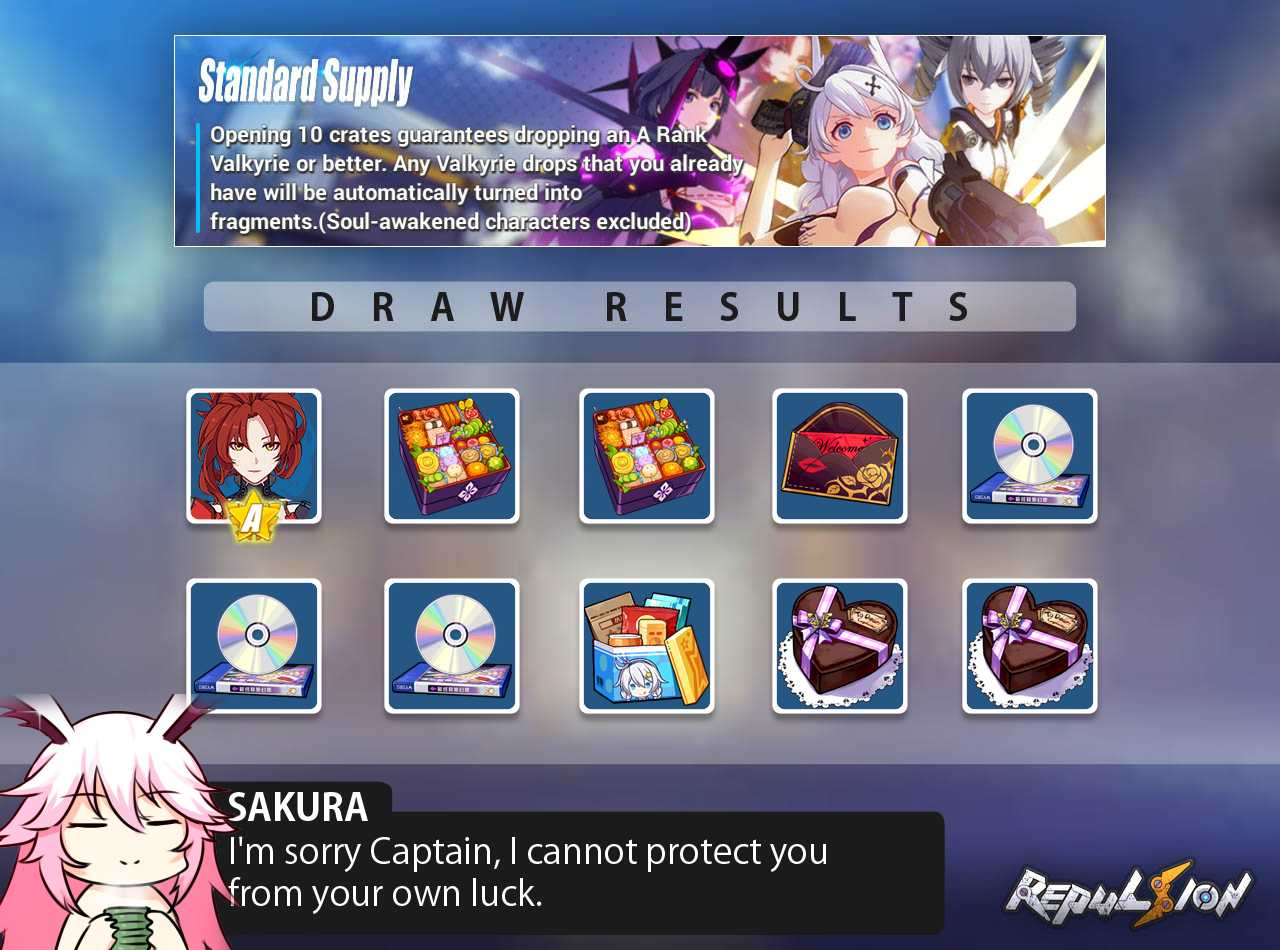
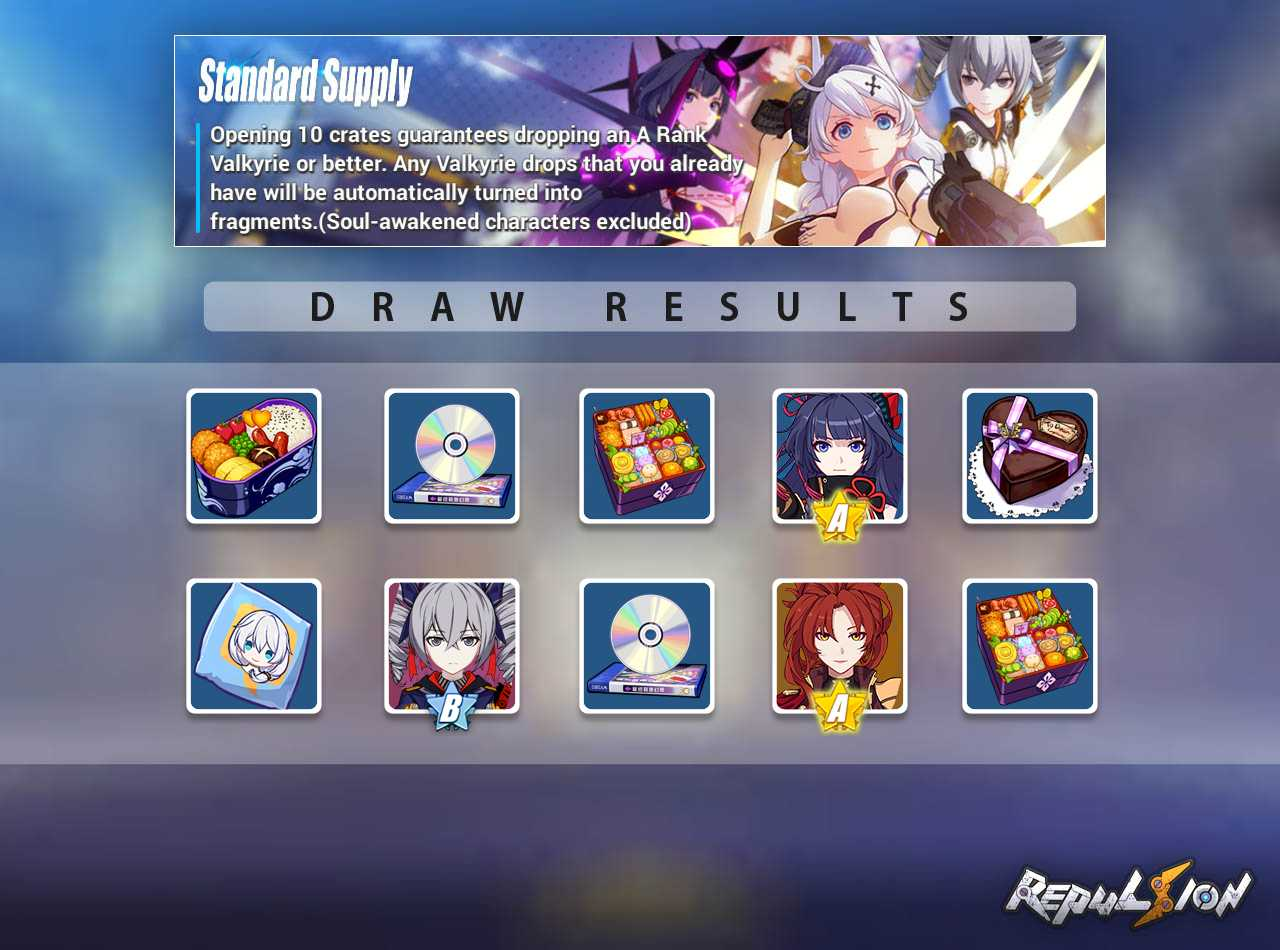
Removed gacha chat

diff --git a/src/commands/standardGacha.js b/src/commands/standardGacha.js
@@ -1,6 +1,4 @@
 const images = require('images');
-const countFiles = require('count-files');
-
 const standardGachaDatabase = require('../database/gachadb').standard;
 const chatGacha = require('../database/chatdb').chat;
 
@@ -73,30 +71,7 @@ function gachaDraw() {
   }
 }
 
-function fileCount() {
-  resultArray.sort().reverse();
-  const rand = getRandomInt(0, chatGacha.character.length);
-  chatBoxChar = chatGacha.character[rand];
-  getSRankText = '';
-  avatarRank = '';
-  if (getSRank > 0) {
-    getSRankText = 'srank';
-    avatarRank = 'Savatar.PNG';
-  } else {
-    getSRankText = 'nosrank';
-    avatarRank = 'avatar.PNG';
-  }
-  return new Promise(((resolve) => {
-    countFiles(`images/chat/${chatBoxChar}/${getSRankText}`, (err, results) => {
-      if (results.files !== 0) {
-        resolve(results.files);
-      }
-    });
-  }));
-}
-
-function generateImage(valkyrieChatNumber) {
-  chatBoxNumber = getRandomInt(1, valkyrieChatNumber + 1);
+function generateImage() {
   return new Promise(((resolve) => {
     images('./images/input.jpg')
       .size(1280, 950)
@@ -110,8 +85,6 @@ function generateImage(valkyrieChatNumber) {
       .draw(images(`images/${resultArray[7]}`).size(160, 160), 567, 576)
       .draw(images(`images/${resultArray[8]}`).size(160, 160), 760, 576)
       .draw(images(`images/${resultArray[9]}`).size(160, 160), 950, 576)
-      .draw(images(`images/chat/${chatBoxChar}/${getSRankText}/${chatBoxNumber}.PNG`).size(989, 276), 0, 680)
-      .draw(images(`images/chat/${chatBoxChar}/${avatarRank}`).size(242, 276), 0, 680)
       .save('./images/output.jpg', {
         quality: 50,
       });
@@ -133,8 +106,7 @@ async function gachaStart() {
   } else {
     gachaDraw();
   }
-  const counted = await fileCount();
-  await generateImage(counted);
+  await generateImage();
   return new Promise(((resolve) => {
     resolve('done');
   }));

diff --git a/src/reppi.js b/src/reppi.js
@@ -2,13 +2,10 @@
 const Discord = require('discord.js');
 
 const client = new Discord.Client();
-const countFiles = require('count-files');
 const standardGacha = require('./commands/standardGacha.js');
 const valkyrie = require('./commands/valkyrie.js');
 const weapon = require('./commands/weapon.js');
 const stigmata = require('./commands/stigmata.js');
-
-let memeFileName;
 
 client.login(process.env.DISCORD_API_KEY);
 client.on('ready', () => {
@@ -21,7 +18,7 @@ function getRandomInt(min, max) {
   return (Math.floor(Math.random() * (intMax - intMin)) + intMin);
 }
 
-function connectClient(memeFileTotal) {
+function connectClient() {
   client.on('message', (msg) => {
 
     async function start() {
@@ -40,20 +37,7 @@ function connectClient(memeFileTotal) {
         msg.reply(`Does this looks like ${channel} channel to you? 
           If yes, I suggest you to get your eyesight checked.`);
       } else {
-
-        const memeChance = Math.floor(Math.random() * 100) / 100;
-        console.log(`memeChance : ${memeChance}`);
-        memeFileName = getRandomInt(1, memeFileTotal + 1);
-
-        if (memeChance < 0.07) {
-          msg.reply('', {
-            file: `./images/random/${memeFileName}.JPG`,
-          });
-        } else {
           start();
-
-
-        }
       }
     }
 
@@ -141,6 +125,4 @@ function connectClient(memeFileTotal) {
   });
 }
 
-countFiles('./images/random', (err, results) => {
-  connectClient(2);
-});
+connectClient();
